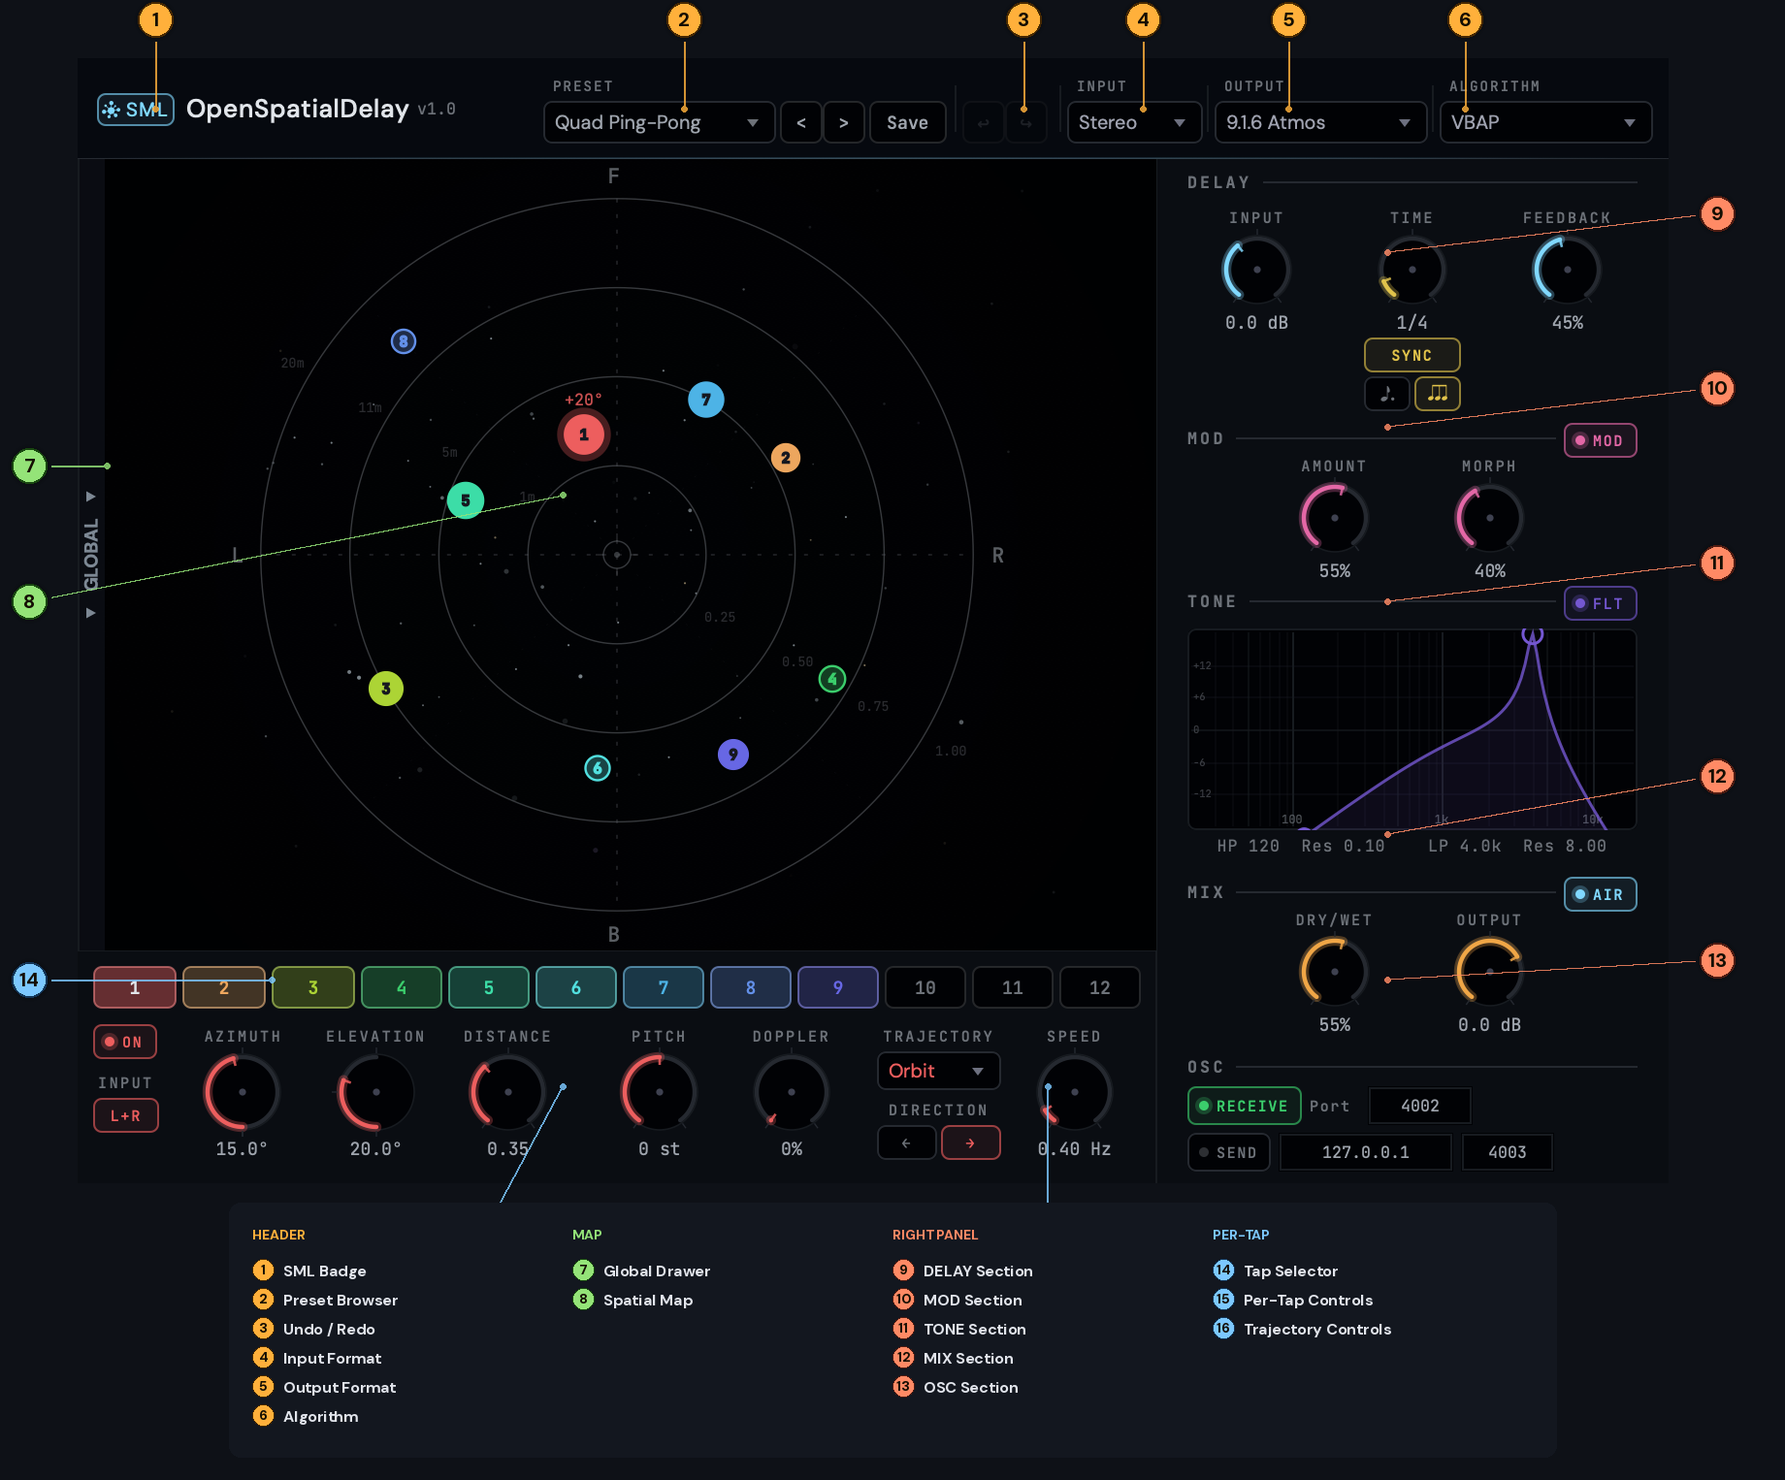
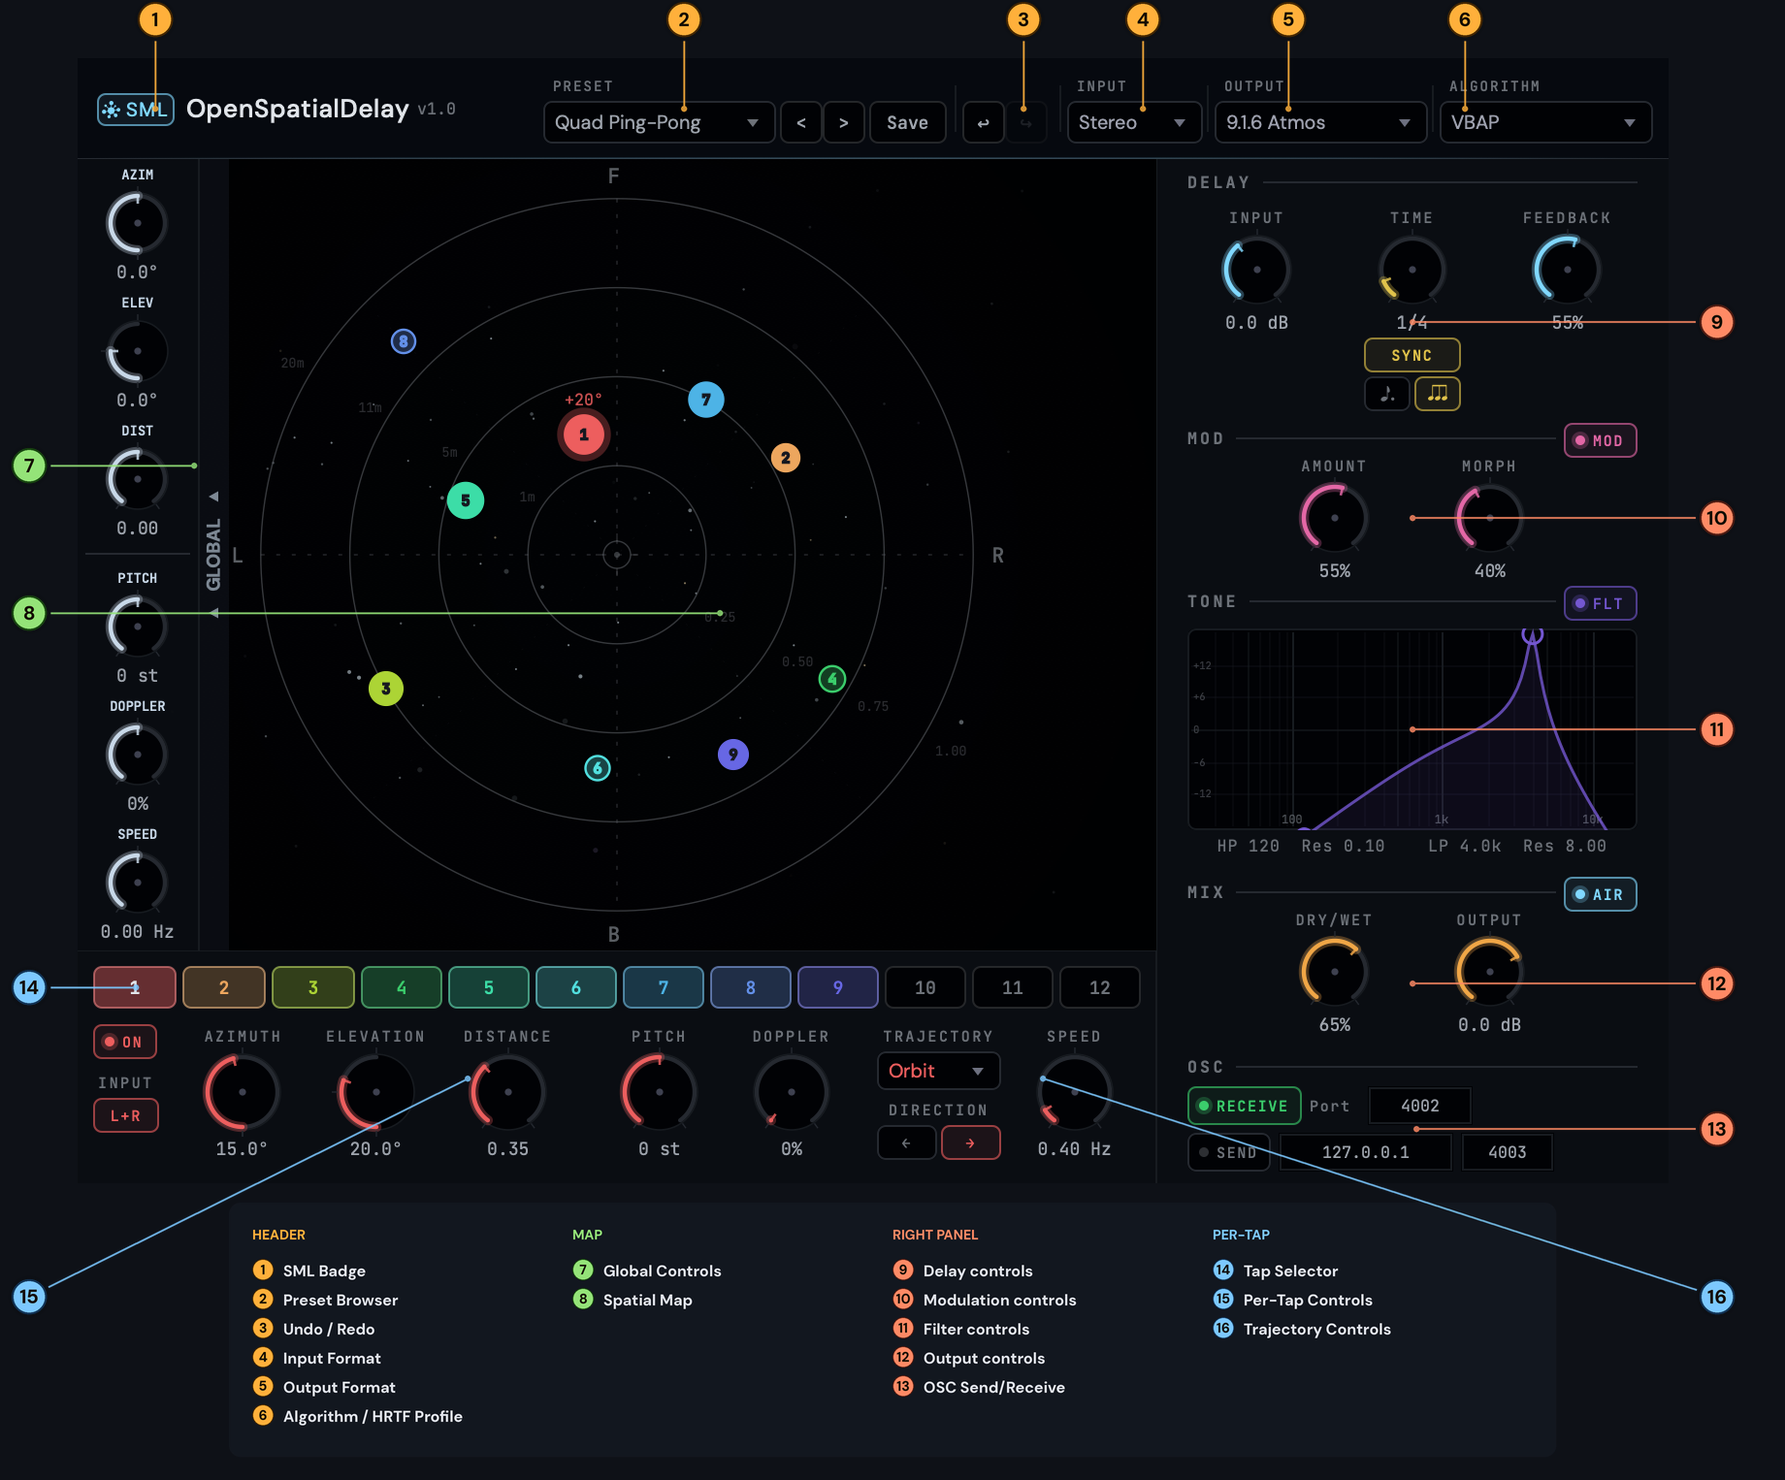
Screenshot revisions round 3 — item 2: annotated callouts (issue #168)
Rework screenshot_annotated.png per the user's round-3 feedback on item 2:

- tools/screenshot_tool.cpp: new `annotated-source` capture mode that
  combines showcase state + Global Drawer open + populated undo history.
  Produces a dedicated source image so the overlay can point to the drawer
  tab and highlighted undo arrow without affecting the main screenshot.png.
- docs/assets/annotate_screenshot.py: supersampled overlay (3× LANCZOS)
  for antialiased circles and lines; callout targets rewritten to land on
  section centres (9–13) with straight horizontal leaders; 14 horizontal
  to the "1" digit on Tap 1; 15/16 numbers anchored in the bottom corners
  with diagonal leaders to the Elevation/Distance and Trajectory/Speed
  gaps; legend labels updated to user wording; legend drawn first so
  leader lines render on top.
- scripts/regenerate_screenshots.sh: invoke the new annotated-source mode.
- docs/assets/screenshot_annotated_source.png (new): raw capture.
- docs/assets/screenshot_annotated.png: regenerated overlay.
- docs/SCREENSHOT_REVIEW_ROUND_3.md (new): tracker for the item-by-item
  round-3 revisions and handoff to the next session.

Remaining round-3 items (6, 7, 10, 11, 12, 16, 17) unchanged; awaiting
user review.

diff --git a/docs/assets/annotate_screenshot.py b/docs/assets/annotate_screenshot.py
@@ -3,8 +3,12 @@
 Annotate OpenSpatialDelay plugin screenshot with numbered callouts.
 Generates screenshot_annotated.png with leader lines, callout circles, and a legend.
 
-Round 2 (issue #168): callouts are coloured by UI section, and the legend is
-broken into subsections that mirror the callout colour groups.
+Round 3 (issue #168): source image includes the Global Drawer open and the
+undo arrow highlighted (produced by the screenshot_tool `annotated-source`
+mode). Callouts 9–13 now target each right-panel section header precisely.
+Callouts 15/16 moved into the side margins so they no longer collide with the
+legend block. All circles and leader lines are supersampled and downscaled so
+they render with clean antialiased edges instead of pixelated ones.
 """
 
 from PIL import Image, ImageDraw, ImageFont
@@ -14,11 +18,17 @@ import math
 # Paths resolve relative to the repository root (parent of docs/).
 import os
 REPO_ROOT = os.path.abspath(os.path.join(os.path.dirname(__file__), "..", ".."))
-SRC = os.path.join(REPO_ROOT, "docs/assets/screenshot.png")
+SRC = os.path.join(REPO_ROOT, "docs/assets/screenshot_annotated_source.png")
 DST = os.path.join(REPO_ROOT, "docs/assets/screenshot_annotated.png")
 FONT_PATH = os.path.join(REPO_ROOT, "fonts/DM_Sans-Bold.ttf")
 
-CIRCLE_RADIUS = 18  # 36px diameter
+# Overlay drawing uses Pillow's built-in primitives, which do not antialias.
+# To get clean circles and lines we render the overlay at this multiple of the
+# final canvas size, then downscale with LANCZOS. 3x is a good balance of
+# quality vs. memory.
+SUPERSAMPLE = 3
+
+CIRCLE_RADIUS = 18  # 36px diameter at final resolution
 LINE_WIDTH = 2
 TEXT_COLOR = (20, 14, 2)           # near-black for legibility on light hues
 LEGEND_BG = (20, 24, 32, 220)      # dark semi-transparent
@@ -45,43 +55,66 @@ SECTION_OUTLINES = {
 # Callout definitions. Tuple: (number, label, section, target_x, target_y, callout_x, callout_y)
 # target = point on the UI element; callout = where the circle goes (outside the element)
 # Coordinates are in source-image pixels (1640x1160 — scale=2 output).
+#
+# Right-panel targets (issue #168 r3 feedback: point to section CENTRES, not headers):
+#   9  DELAY  → under the TIME knob value        (1376, 272)
+#   10 MOD    → between AMOUNT and MORPH knobs   (1376, 474)
+#   11 TONE   → centre of the filter graph       (1376, 692)
+#   12 MIX    → between DRY/WET and OUTPUT       (1376, 954)
+#   13 OSC    → between receive port and send    (1380, 1104)
+# 15/16 numbers sit in the side margins at the bottom of the image so they
+# don't occlude the per-tap knobs, and the leader lines do not cross pointer 13.
 CALLOUTS = [
     # --- Header row ------------------------------------------------------
-    ( 1, "SML Badge",           "HEADER",       80,   52,    80, -40),
-    ( 2, "Preset Browser",      "HEADER",      625,   52,   625, -40),
-    ( 3, "Undo / Redo",         "HEADER",      975,   52,   975, -40),
-    ( 4, "Input Format",        "HEADER",     1098,   52,  1098, -40),
-    ( 5, "Output Format",       "HEADER",     1248,   52,  1248, -40),
-    ( 6, "Algorithm",           "HEADER",     1430,   52,  1430, -40),
+    ( 1, "SML Badge",                "HEADER",       80,   52,    80, -40),
+    ( 2, "Preset Browser",           "HEADER",      625,   52,   625, -40),
+    ( 3, "Undo / Redo",              "HEADER",      975,   52,   975, -40),
+    ( 4, "Input Format",             "HEADER",     1098,   52,  1098, -40),
+    ( 5, "Output Format",            "HEADER",     1248,   52,  1248, -40),
+    ( 6, "Algorithm / HRTF Profile", "HEADER",     1430,   52,  1430, -40),
     # --- Map / Drawer ----------------------------------------------------
-    ( 7, "Global Drawer",       "MAP",          30,  420,   -50,  420),
-    ( 8, "Spatial Map",         "MAP",         500,  450,   -50,  560),
-    # --- Right panel sections --------------------------------------------
-    ( 9, "DELAY Section",       "RIGHT PANEL",1350,  200,  1690,  160),
-    (10, "MOD Section",         "RIGHT PANEL",1350,  380,  1690,  340),
-    (11, "TONE Section",        "RIGHT PANEL",1350,  560,  1690,  520),
-    (12, "MIX Section",         "RIGHT PANEL",1350,  800,  1690,  740),
-    (13, "OSC Section",         "RIGHT PANEL",1350,  950,  1690,  930),
+    ( 7, "Global Controls",          "MAP",         120,  420,   -50,  420),
+    ( 8, "Spatial Map",              "MAP",         662,  572,   -50,  572),
+    # --- Right panel sections — straight horizontal leaders from the right
+    #     margin (callout Y matches target Y). Avoid diagonal lines.
+    ( 9, "Delay controls",           "RIGHT PANEL",1376,  272,  1690,  272),
+    (10, "Modulation controls",      "RIGHT PANEL",1376,  474,  1690,  474),
+    (11, "Filter controls",          "RIGHT PANEL",1376,  692,  1690,  692),
+    (12, "Output controls",          "RIGHT PANEL",1376,  954,  1690,  954),
+    (13, "OSC Send/Receive",         "RIGHT PANEL",1380, 1104,  1690, 1104),
     # --- Bottom panel ----------------------------------------------------
-    (14, "Tap Selector",        "PER-TAP",     200,  950,   -50,  950),
-    (15, "Per-Tap Controls",    "PER-TAP",     500, 1060,   420, 1210),
-    (16, "Trajectory Controls", "PER-TAP",    1000, 1060,  1000, 1210),
+    # 14 → the "1" digit on Tap 1 button.
+    # 15 → exact knob-circle midpoint between ELEVATION and DISTANCE
+    #      (measured from the rendered knob row: EL centre ≈ 330, DIST centre
+    #      ≈ 475 → midpoint 402; vertical knob-circle centre ≈ 1052).
+    # 16 → exact midpoint between TRAJ/DIR column and SPEED knob column
+    #      (TRAJ centre ≈ 915, SPEED centre ≈ 1070 → midpoint 995;
+    #      vertical midpoint of both columns ≈ 1052).
+    # Callout numbers for 15/16 live in the far bottom corners of the canvas
+    # (below the image, clear of the horizontally-centred legend at x=236–1604).
+    (14, "Tap Selector",             "PER-TAP",      60,  958,   -50,  958),
+    (15, "Per-Tap Controls",         "PER-TAP",     402, 1052,   -50, 1277),
+    (16, "Trajectory Controls",      "PER-TAP",     995, 1052,  1690, 1277),
 ]
 
 
-def draw_circle_with_number(draw, cx, cy, number, font, section):
-    """Draw a filled section-coloured circle with a dark number centered inside."""
-    bbox = [cx - CIRCLE_RADIUS, cy - CIRCLE_RADIUS,
-            cx + CIRCLE_RADIUS, cy + CIRCLE_RADIUS]
+def draw_circle_with_number(draw, cx, cy, number, font, section, ss):
+    """Draw a filled section-coloured circle with a dark number centered inside.
+
+    All coordinates and sizes are multiplied by `ss` (supersample factor) so
+    the overlay renders at higher resolution and antialiases when downscaled.
+    """
+    r = CIRCLE_RADIUS * ss
+    bbox = [cx - r, cy - r, cx + r, cy + r]
     fill = SECTION_COLORS[section]
     outline = SECTION_OUTLINES[section]
     # Outer glow / shadow for visibility against the dark background
-    for offset in range(4, 0, -1):
+    for offset in range(4 * ss, 0, -ss):
         glow_bbox = [bbox[0] - offset, bbox[1] - offset,
                      bbox[2] + offset, bbox[3] + offset]
-        alpha = int(40 * (5 - offset) / 4)
+        alpha = int(40 * (5 * ss - offset) / (4 * ss))
         draw.ellipse(glow_bbox, fill=(0, 0, 0, alpha))
-    draw.ellipse(bbox, fill=fill, outline=outline, width=2)
+    draw.ellipse(bbox, fill=fill, outline=outline, width=2 * ss)
 
     # Center the number text
     text = str(number)
@@ -93,55 +126,52 @@ def draw_circle_with_number(draw, cx, cy, number, font, section):
     draw.text((tx, ty), text, fill=TEXT_COLOR, font=font)
 
 
-def draw_leader_line(draw, x1, y1, x2, y2, section):
+def draw_leader_line(draw, x1, y1, x2, y2, section, ss):
     """Draw a thin section-coloured leader line from callout circle to target point."""
     dx = x2 - x1
     dy = y2 - y1
     dist = math.sqrt(dx * dx + dy * dy)
-    if dist < CIRCLE_RADIUS + 4:
+    r = CIRCLE_RADIUS * ss
+    if dist < r + 4 * ss:
         return
 
-    start_x = x1 + (dx / dist) * (CIRCLE_RADIUS + 2)
-    start_y = y1 + (dy / dist) * (CIRCLE_RADIUS + 2)
+    start_x = x1 + (dx / dist) * (r + 2 * ss)
+    start_y = y1 + (dy / dist) * (r + 2 * ss)
 
     hue = SECTION_COLORS[section]
     line_col = (hue[0], hue[1], hue[2], 210)
-    draw.line([(start_x, start_y), (x2, y2)], fill=line_col, width=LINE_WIDTH)
-    dot_r = 3
+    draw.line([(start_x, start_y), (x2, y2)], fill=line_col, width=LINE_WIDTH * ss)
+    dot_r = 3 * ss
     draw.ellipse([x2 - dot_r, y2 - dot_r, x2 + dot_r, y2 + dot_r], fill=line_col)
 
 
 def draw_legend(draw, font_label, font_num, font_heading,
-                img_width, start_y):
+                img_width, start_y, ss):
     """Draw the legend split into per-section subsection blocks.
 
     Returns the bottom-Y of the legend block so the caller can size the canvas.
     """
-    padding = 24
-    line_height = 30
-    heading_height = 34
-    block_gap = 14
+    padding = 24 * ss
+    line_height = 30 * ss
+    heading_height = 34 * ss
 
-    # Group callouts by section, preserving the SECTION_ORDER
     grouped = {name: [] for name in SECTION_ORDER}
     for c in CALLOUTS:
         grouped[c[2]].append(c)
 
-    # Compute column layout: one column per section, equal widths
     num_cols = len(SECTION_ORDER)
-    col_width = 330
+    col_width = 330 * ss
     legend_width = col_width * num_cols + padding * 2
 
-    # Tallest column determines block height
     max_items = max(len(grouped[name]) for name in SECTION_ORDER)
     legend_height = padding + heading_height + max_items * line_height + padding
 
     legend_x = (img_width - legend_width) // 2
-    legend_y = start_y + 16
+    legend_y = start_y + 16 * ss
 
     draw.rounded_rectangle(
         [legend_x, legend_y, legend_x + legend_width, legend_y + legend_height],
-        radius=12, fill=LEGEND_BG
+        radius=12 * ss, fill=LEGEND_BG
     )
 
     for col_idx, section in enumerate(SECTION_ORDER):
@@ -149,19 +179,17 @@ def draw_legend(draw, font_label, font_num, font_heading,
         heading_y = legend_y + padding
         fill = SECTION_COLORS[section]
 
-        # Subsection heading in the section hue
         draw.text((col_x, heading_y), section,
                   fill=fill, font=font_heading)
 
-        # Items
         for row, (num, label, sec, *_rest) in enumerate(grouped[section]):
             row_y = heading_y + heading_height + row * line_height
-            small_r = 11
+            small_r = 11 * ss
             cx = col_x + small_r
             cy = row_y + small_r
             draw.ellipse(
                 [cx - small_r, cy - small_r, cx + small_r, cy + small_r],
-                fill=fill, outline=SECTION_OUTLINES[section], width=1,
+                fill=fill, outline=SECTION_OUTLINES[section], width=1 * ss,
             )
             text = str(num)
             tb = font_num.getbbox(text)
@@ -169,10 +197,9 @@ def draw_legend(draw, font_label, font_num, font_heading,
             th = tb[3] - tb[1]
             draw.text((cx - tw / 2 - tb[0], cy - th / 2 - tb[1]),
                       text, fill=TEXT_COLOR, font=font_num)
-            draw.text((col_x + small_r * 2 + 10, row_y + 2), label,
+            draw.text((col_x + small_r * 2 + 10 * ss, row_y + 2 * ss), label,
                       fill=LEGEND_TEXT_COLOR, font=font_label)
 
-    _ = block_gap  # reserved for future inter-section spacing
     return legend_y + legend_height
 
 
@@ -201,37 +228,54 @@ def main():
     canvas = Image.new("RGBA", (canvas_w, canvas_h), (14, 17, 23, 255))
     canvas.paste(src, (margin_left, margin_top), src)
 
-    overlay = Image.new("RGBA", (canvas_w, canvas_h), (0, 0, 0, 0))
-    draw = ImageDraw.Draw(overlay)
+    # Supersampled overlay: all drawing happens at SUPERSAMPLE× resolution and
+    # the result is downscaled with LANCZOS so circles and leader lines look
+    # antialiased (Pillow's primitives have no native AA).
+    ss = SUPERSAMPLE
+    overlay_hi = Image.new(
+        "RGBA", (canvas_w * ss, canvas_h * ss), (0, 0, 0, 0)
+    )
+    draw = ImageDraw.Draw(overlay_hi)
 
-    font_number = ImageFont.truetype(FONT_PATH, 20)
-    font_legend_num = ImageFont.truetype(FONT_PATH, 14)
-    font_legend_label = ImageFont.truetype(FONT_PATH, 16)
-    font_legend_heading = ImageFont.truetype(FONT_PATH, 14)
+    font_number = ImageFont.truetype(FONT_PATH, 20 * ss)
+    font_legend_num = ImageFont.truetype(FONT_PATH, 14 * ss)
+    font_legend_label = ImageFont.truetype(FONT_PATH, 16 * ss)
+    font_legend_heading = ImageFont.truetype(FONT_PATH, 14 * ss)
 
+    # Adjust callout coords into canvas space, then scale to the supersampled
+    # overlay.
     adjusted_callouts = []
     for num, label, section, tx, ty, cx, cy in CALLOUTS:
-        adj_tx = tx + margin_left
-        adj_ty = ty + margin_top
-        adj_cx = cx + margin_left
-        adj_cy = cy + margin_top
-        adjusted_callouts.append((num, label, section, adj_tx, adj_ty, adj_cx, adj_cy))
+        adj_tx = (tx + margin_left) * ss
+        adj_ty = (ty + margin_top) * ss
+        adj_cx = (cx + margin_left) * ss
+        adj_cy = (cy + margin_top) * ss
+        adjusted_callouts.append(
+            (num, label, section, adj_tx, adj_ty, adj_cx, adj_cy)
+        )
 
-    for num, label, section, tx, ty, cx, cy in adjusted_callouts:
-        draw_leader_line(draw, cx, cy, tx, ty, section)
-
-    for num, label, section, tx, ty, cx, cy in adjusted_callouts:
-        draw_circle_with_number(draw, cx, cy, num, font_number, section)
-
-    legend_start_y = src_h + margin_top + 4
+    # Draw legend FIRST so that leader lines from 15/16 (which sit in the
+    # bottom canvas corners and diagonally cross the legend on their way to
+    # the bottom-panel knobs) render on top of the legend box rather than
+    # being cut off by it.
+    legend_start_y = (src_h + margin_top + 4) * ss
     draw_legend(
         draw,
         font_legend_label,
         font_legend_num,
         font_legend_heading,
-        canvas_w,
+        canvas_w * ss,
         legend_start_y,
+        ss,
     )
+
+    for num, label, section, tx, ty, cx, cy in adjusted_callouts:
+        draw_leader_line(draw, cx, cy, tx, ty, section, ss)
+
+    for num, label, section, tx, ty, cx, cy in adjusted_callouts:
+        draw_circle_with_number(draw, cx, cy, num, font_number, section, ss)
+
+    overlay = overlay_hi.resize((canvas_w, canvas_h), Image.LANCZOS)
 
     canvas = Image.alpha_composite(canvas, overlay)
     canvas.save(DST, "PNG")

diff --git a/tools/screenshot_tool.cpp b/tools/screenshot_tool.cpp
@@ -26,6 +26,8 @@
 //   preset-menu       — Editor with nested preset menu (folders + expanded submenu)
 //   output-dropdown   — Editor with the Output Format dropdown (flat list)
 //   undo-active       — Editor with populated undo history (undo active, redo inactive)
+//   annotated-source  — Showcase state + Global Drawer open + undo history populated.
+//                       Source image for the annotated callout overlay (issue #168 r3).
 //   spatial-map       — Just the SpatialMap component (no drawer, no bottom panel)
 //   elevation-map     — SpatialMap with all 12 taps in a −90°→+90° spiral, labelled
 //
@@ -771,6 +773,22 @@ int main (int argc, char* argv[])
         osd->syncForScreenshot();  // triggers timerCallback → updateUndoButtons
         result = snapshotComponent (*osd, scaleFactor);
     }
+    else if (mode == "annotated-source")
+    {
+        // Source image for the callout overlay (issue #168 r3). Combines the
+        // showcase state (features-on demo) with the Global Drawer open and a
+        // populated undo history so the annotated overlay can point to every
+        // major UI region — including the drawer tab and the highlighted undo
+        // arrow. Always applies showcase, so --showcase is implicit here.
+        if (! showcase)
+            applyShowcaseState (processor, *osd);
+        const float demoKnobs[6] = { 0.0f, 0.0f, 0.15f, -0.1f, 0.0f, 0.0f };
+        osd->configureGlobalDrawer (true, demoKnobs, 6);
+        populateUndoHistory (processor);
+        osd->resized();
+        osd->syncForScreenshot();
+        result = snapshotComponent (*osd, scaleFactor);
+    }
     else if (mode == "spatial-map")
     {
         // Snapshot the SpatialMap component directly — this excludes the
@@ -821,7 +839,8 @@ int main (int argc, char* argv[])
         std::cerr << "Error: unknown --mode: " << mode.toStdString() << "\n";
         std::cerr << "Valid modes: full, drawer-open, tone-section, osc-section,\n"
                      "             save-overlay, preset-menu, output-dropdown,\n"
-                     "             undo-active, spatial-map, elevation-map\n";
+                     "             undo-active, annotated-source, spatial-map,\n"
+                     "             elevation-map\n";
         return 1;
     }
 
